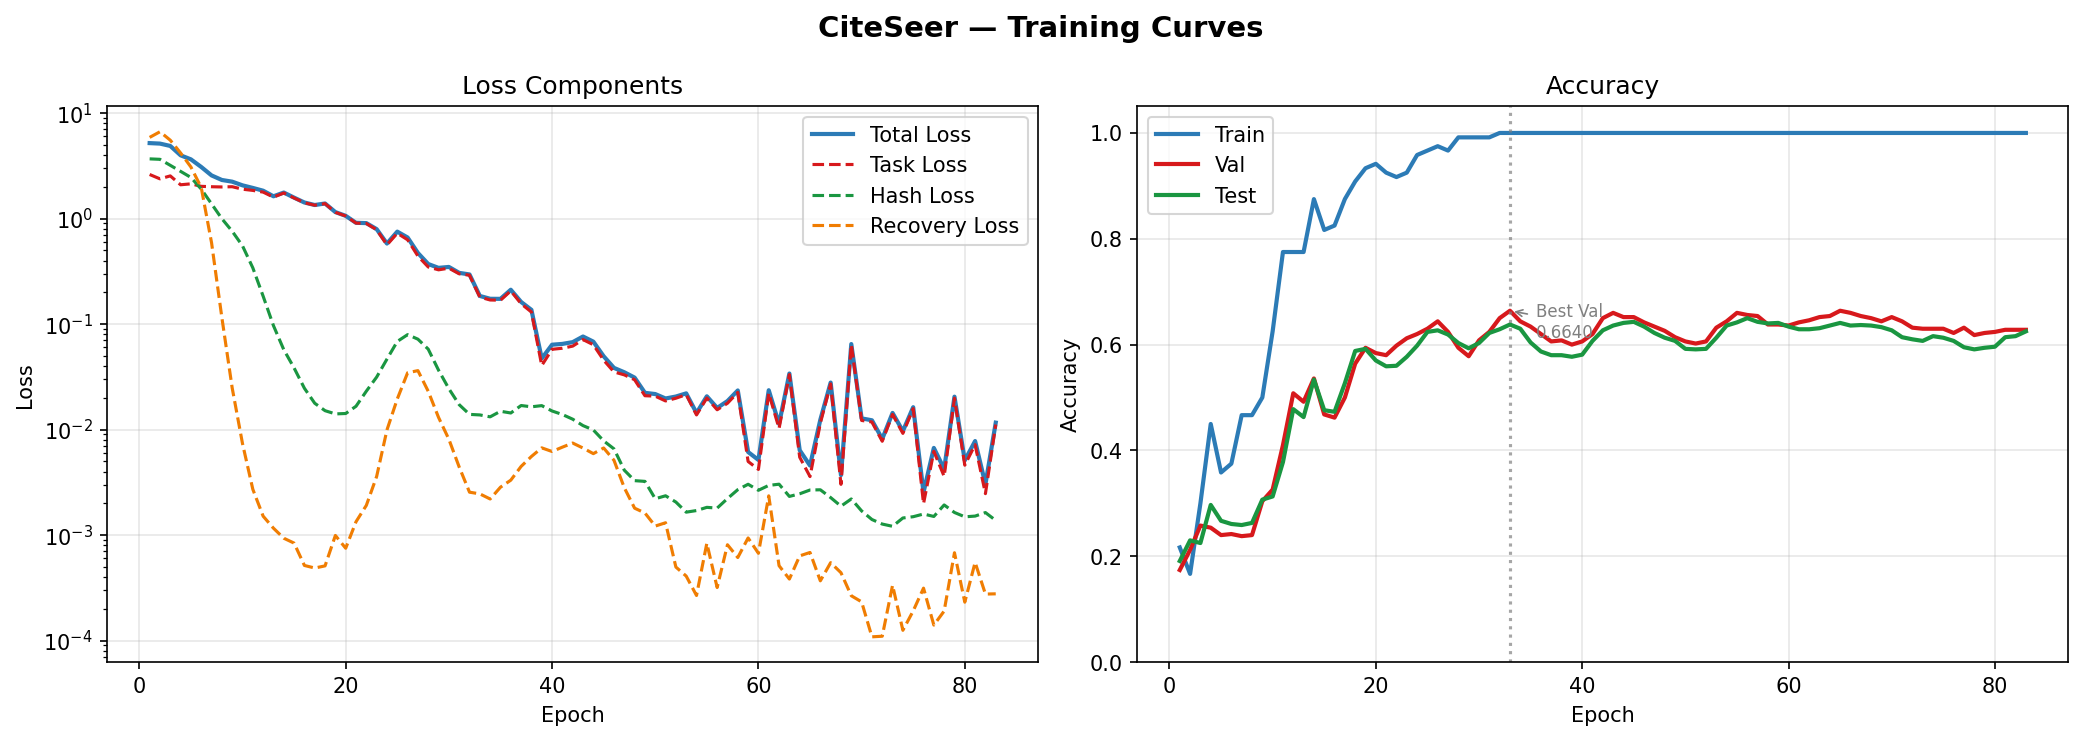
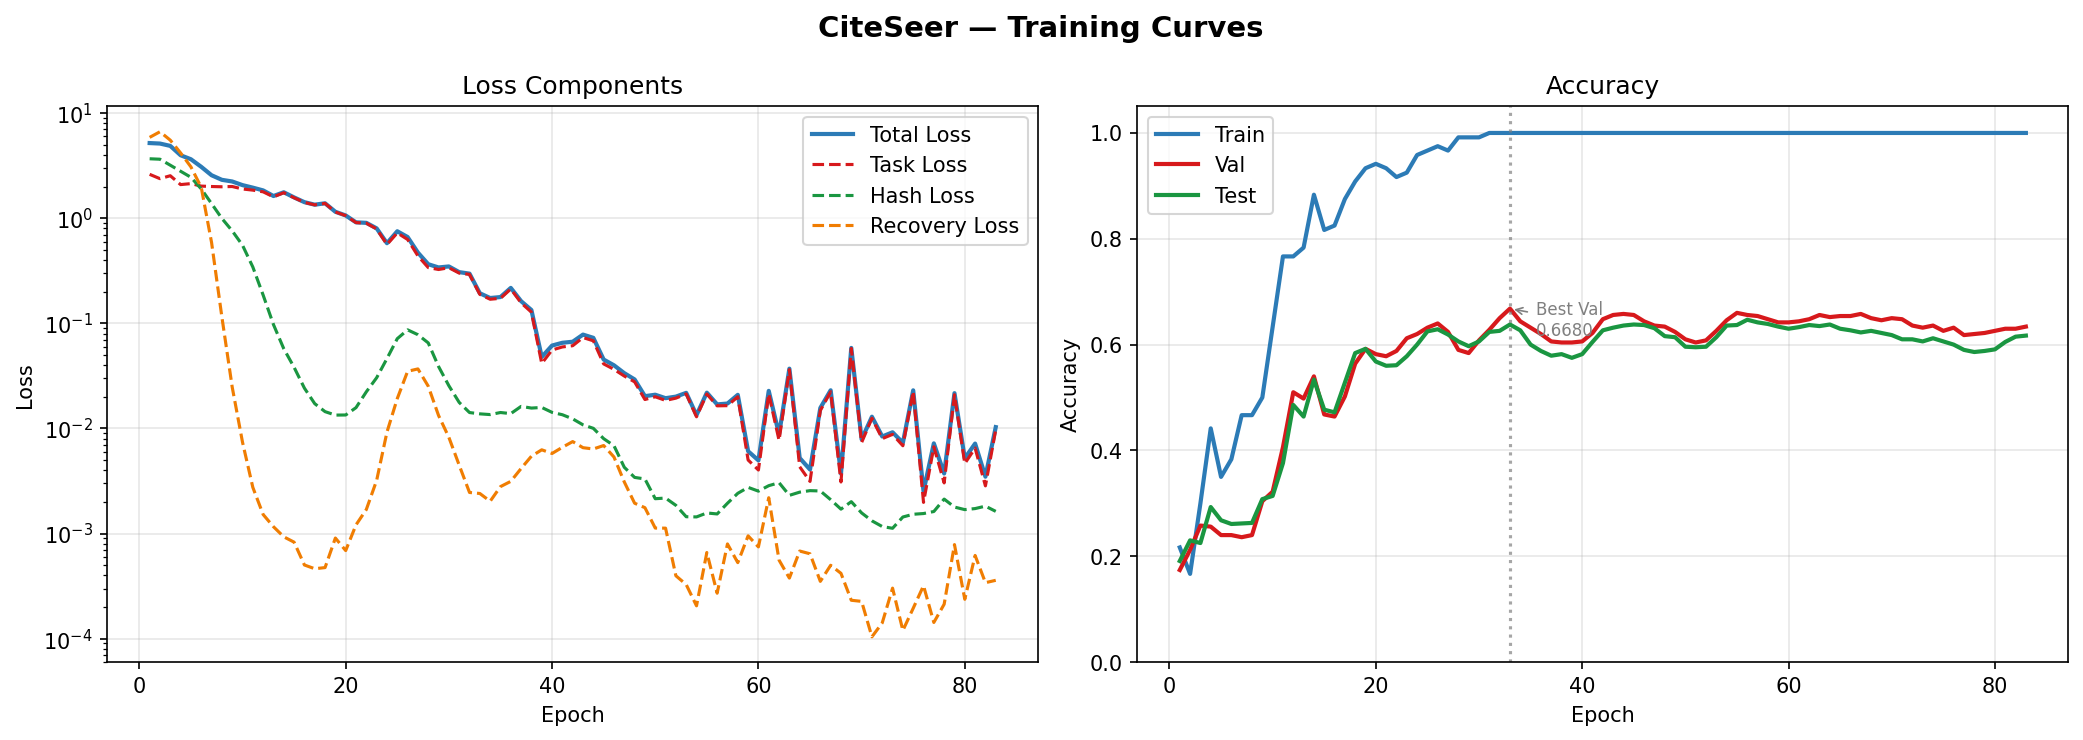
added bucket plots

diff --git a/src/train.py b/src/train.py
@@ -22,7 +22,7 @@ from .model.transformer_model  import SparseGraphTransformer
 from .hyperparameters.config   import get_config
 from .losses.hash_loss         import hash_supervision_loss
 from .losses.reconstruction_loss import recovery_loss
-from .utils import log, plot_training
+from .utils import log, plot_training, plot_bucket_distribution
 
 # ─────────────────────────────────────────────────────────────────────────────
 def set_seed(seed=42):
@@ -97,14 +97,17 @@ def train_epoch(model, data, optimizer, config, device):
 
 
 @torch.no_grad()
-def evaluate(model, data, device):
+def evaluate(model, data, device, epoch=None, config=None):
     model.eval()
-    logits, _ = model(
+    
+    # Capture aux output to get the bucket logits
+    logits, aux = model(
         data.x,
         data.lap_pe,
         data.edge_index,
         data.deg,
     )
+    
     y    = data.y
     pred = logits.argmax(dim=-1)
 
@@ -115,6 +118,22 @@ def evaluate(model, data, device):
         correct = (pred[mask] == y[mask]).sum().item()
         total   = mask.sum().item()
         results[split] = correct / total if total > 0 else 0.0
+        
+    # ── Plot Bucket Distribution ──────────────────────────────────────
+    # Plot on the first epoch, every 10th epoch, and the final epoch
+    if epoch is not None and config is not None:
+        if epoch == 1 or epoch % 10 == 0 or epoch == config.epochs:
+            # We usually plot the distribution of the final attention layer
+            last_layer_logits = aux["bucket_logits"][-1]
+            
+            plot_bucket_distribution(
+                bucket_logits=last_layer_logits,
+                num_buckets=config.num_buckets,
+                epoch=epoch,
+                dataset_name=config.dataset_name,
+                save_dir="plots"
+            )
+
     return results
 
 
@@ -184,7 +203,9 @@ def main(args):
 
     for epoch in range(1, config.epochs + 1):
         losses = train_epoch(model, data, optimizer, config, device)
-        accs   = evaluate(model, data, device)
+        
+        # Pass epoch and config to evaluate() to enable plotting
+        accs   = evaluate(model, data, device, epoch=epoch, config=config)
         scheduler.step()
 
         # Record history every epoch
@@ -216,6 +237,8 @@ def main(args):
 
         if patience_count >= config.patience:
             log(f"\n[Train] Early stopping at epoch {epoch}")
+            # Ensure we plot the final distribution right before exiting
+            evaluate(model, data, device, epoch=epoch, config=config)
             break
 
     # ── Final results ─────────────────────────────────────────────────

diff --git a/src/utils.py b/src/utils.py
@@ -3,6 +3,8 @@ import matplotlib
 matplotlib.use('Agg')   
 import matplotlib.pyplot as plt
 import os
+import numpy as np
+import torch
 
 def log(msg):
     print(f"[{datetime.now().strftime('%H:%M:%S')}] {msg}")
@@ -84,3 +86,60 @@ def plot_training(history: dict, dataset_name: str, save_dir: str):
         plt.savefig(path_rec, dpi=150, bbox_inches="tight")
         plt.close()
         log(f"[Plot] Saved → {path_rec}")
+
+def plot_bucket_distribution(bucket_logits, num_buckets, epoch, dataset_name, save_dir="plots"):
+    """
+    Plots the distribution of nodes across LSH buckets.
+    
+    Args:
+        bucket_logits : dict containing 'q' and 'k' logits from the model
+        num_buckets   : int, the number of buckets (B) configured in the model
+        epoch         : int, current epoch (for the title/filename)
+        dataset_name  : str, e.g., 'Cora'
+        save_dir      : str, directory to save the plot
+    """
+    os.makedirs(save_dir, exist_ok=True)
+    
+    # 1. Get hard bucket assignments
+    # Detach from graph and move to CPU for plotting
+    bq = bucket_logits['q'].argmax(dim=-1).detach().cpu()
+    bk = bucket_logits['k'].argmax(dim=-1).detach().cpu()
+    
+    # 2. Count the number of nodes in each bucket
+    q_counts = torch.bincount(bq, minlength=num_buckets).numpy()
+    k_counts = torch.bincount(bk, minlength=num_buckets).numpy()
+    
+    # 3. Plotting Setup
+    x = np.arange(num_buckets)
+    width = 0.35  # width of the bars
+    
+    fig, ax = plt.subplots(figsize=(10, 6))
+    
+    # Side-by-side bars for Queries and Keys
+    rects1 = ax.bar(x - width/2, q_counts, width, label='Queries', color='skyblue', edgecolor='black')
+    rects2 = ax.bar(x + width/2, k_counts, width, label='Keys', color='salmon', edgecolor='black')
+    
+    # Add some text for labels, title and custom x-axis tick labels
+    ax.set_xlabel('Bucket ID', fontsize=12, fontweight='bold')
+    ax.set_ylabel('Number of Nodes', fontsize=12, fontweight='bold')
+    ax.set_title(f'LSH Bucket Distribution - {dataset_name} (Epoch {epoch})', fontsize=14, fontweight='bold')
+    ax.set_xticks(x)
+    ax.set_xticklabels([f'B{i}' for i in range(num_buckets)])
+    ax.legend()
+    
+    # Add a dashed line showing the "Ideal/Perfectly Balanced" distribution
+    total_nodes = len(bq)
+    ideal_count = total_nodes / num_buckets
+    ax.axhline(ideal_count, color='gray', linestyle='--', label=f'Ideal uniform ({ideal_count:.1f}/bucket)')
+    ax.legend()
+    
+    # Optional: Attach a text label above each bar displaying its height
+    ax.bar_label(rects1, padding=3, fontsize=9)
+    ax.bar_label(rects2, padding=3, fontsize=9)
+    
+    fig.tight_layout()
+    
+    # Save the plot
+    save_path = os.path.join(save_dir, f"{dataset_name}_bucket_dist_ep{epoch}.png")
+    plt.savefig(save_path, dpi=300)
+    plt.close()
